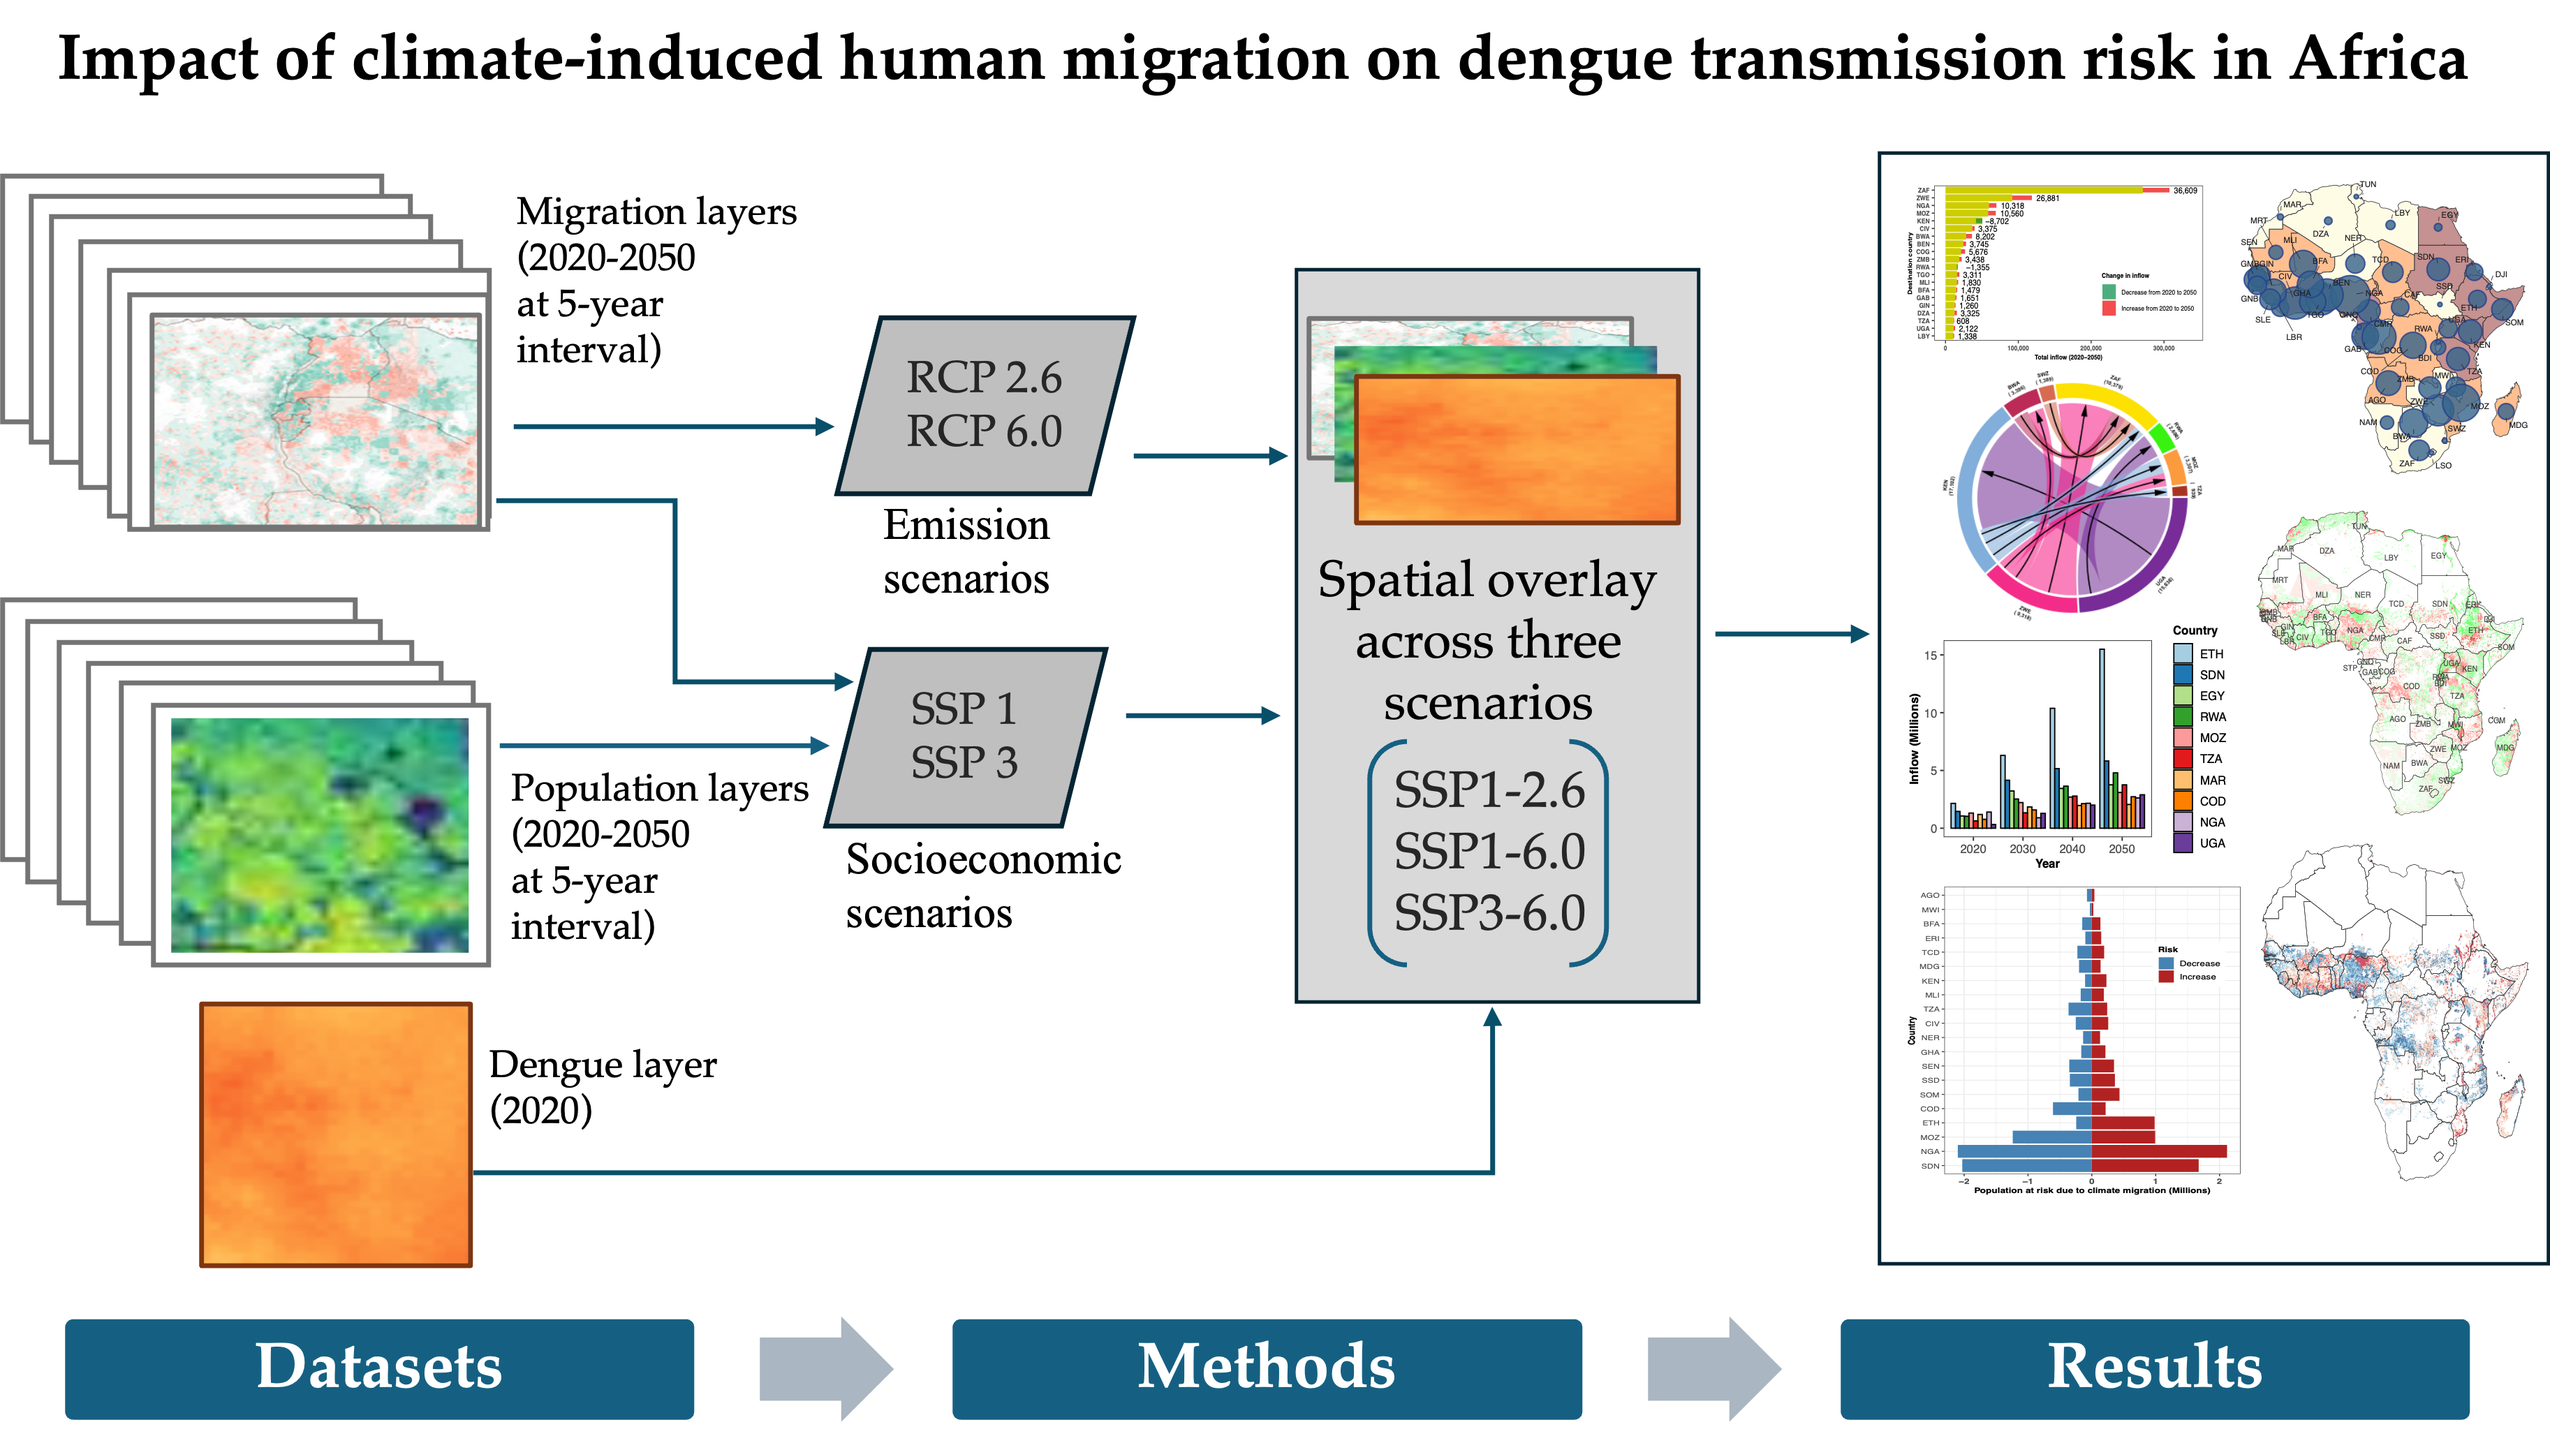
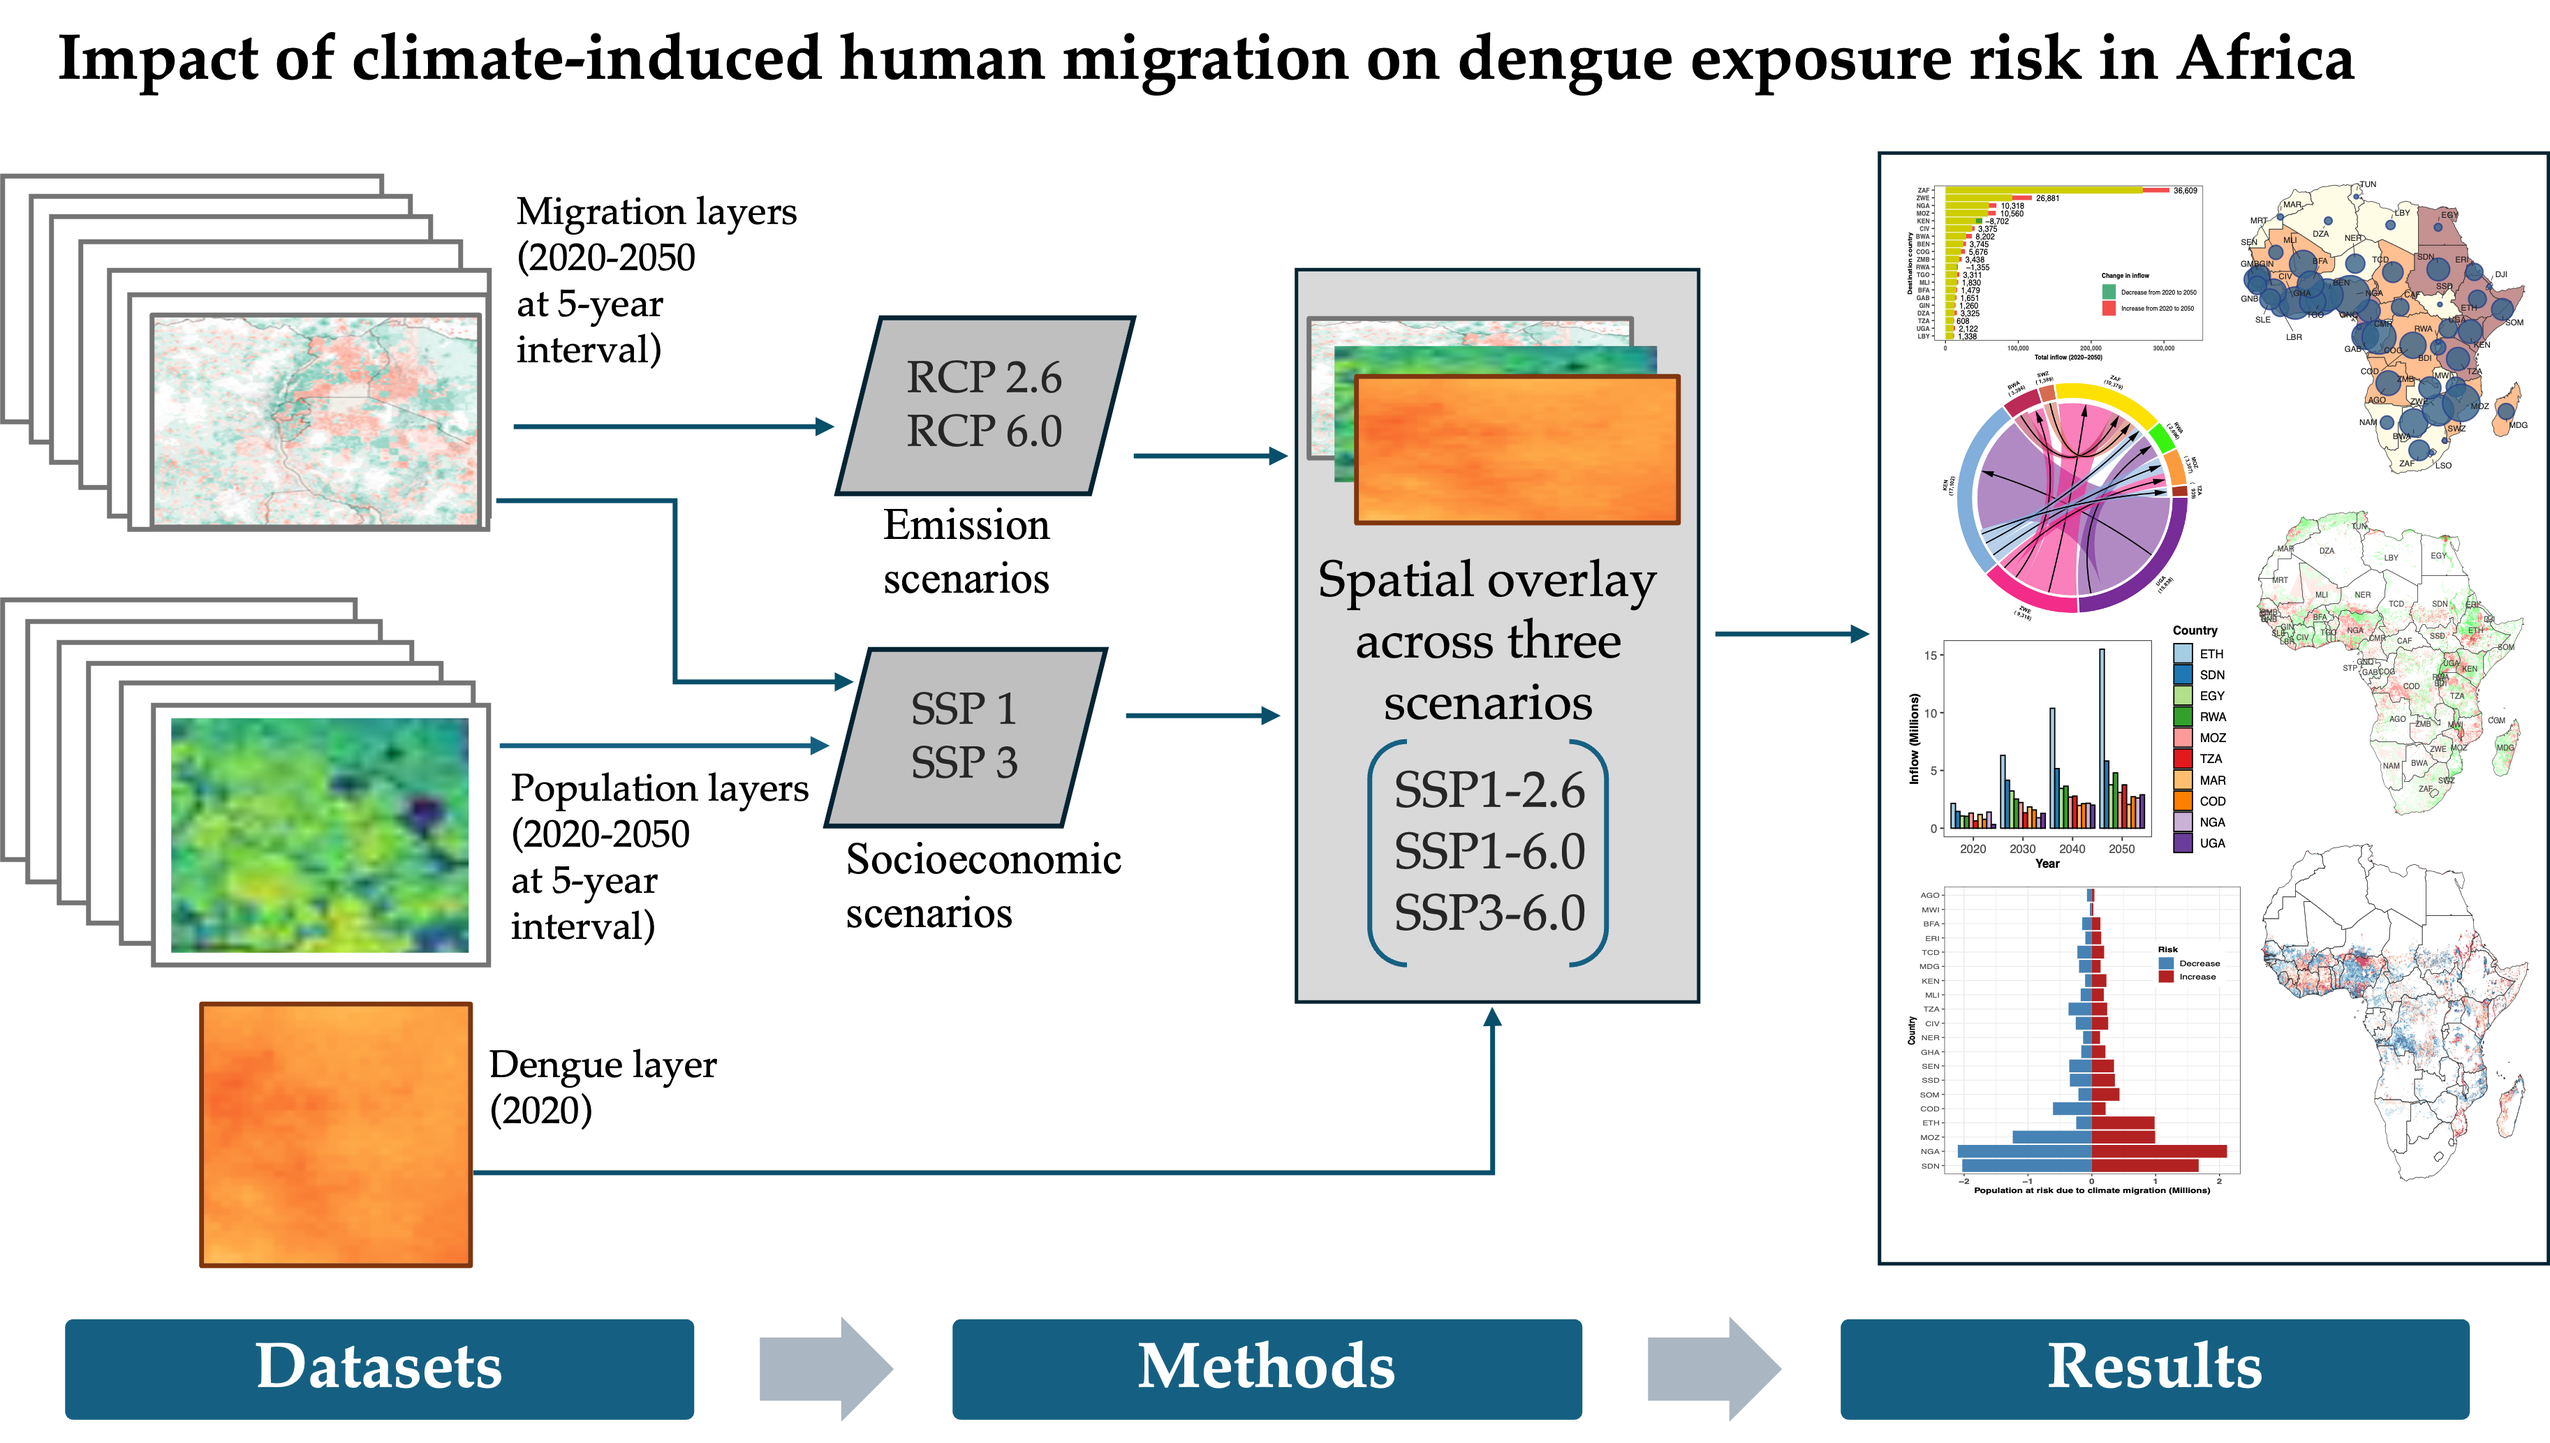
modified

Changed region(s): [[0.6555, 0.031, 0.9677, 0.0619], [0.8116, 0.2787, 0.8428, 0.3406], [0.7804, 0.3406, 0.8116, 0.4025]]

diff --git a/README.md b/README.md
@@ -1,11 +1,13 @@
-# Impact of climate-induced human migration on dengue transmission risk in Africa
+# Impact of climate-induced human migration on dengue exposure risk in Africa
+
+Authors: Moges DM., Poongavanan J., Dor G.,, Moir M., Baxter C., Oliveira T., Moritz MUG., Kraemer M., Tegally H.
 
 # Abstract
 
-Climate-induced human migration is becoming an important factor shaping dengue transmission across Africa. Using continent-wide projections of climate-related migration and population change under multiple development and emissions scenarios through 2050, here we examine how internal and cross-border migration evolve across space and time, and how these shifts reshape population exposure to dengue risk. We find that by mid century, cross-border climate migration is projected to reach about 1.1 million people, while internal climate migration could rise to nearly 75 million. Internal migration is expected to concentrate people in cities, border areas, and climatically favorable regions, while cross-border movements redistribute populations across countries. These mobility patterns create conditions for dengue to spread into areas of Southern Africa with limited or no historical transmission, while further intensifying burdens in already endemic regions of West and East Africa. Overall, climate-induced migration is likely to become a major driver of future dengue risk, underscoring the need for proactive, migration-aware public health planning.
+Climate-induced human migration could become an important factor shaping infectious disease transmission across Africa. Using continent-wide projections of climate-related migration and population change under multiple development and emissions scenarios through 2050, we examine the impacts of population exposure to dengue virus due to climate migration. Here we examine how internal and cross-border migration shift across space and time, and how these shifts reshape population exposure to dengue. By mid‑century, climate change could force about 1.1 million people to move across borders and nearly 75 million to relocate internally. Internal migration is expected to concentrate people in cities, border areas, and climatically favorable transmission regions. Together, these mobility patterns create conditions for dengue to spread into previously unaffected parts of Southern Africa and intensify its burden in endemic regions of West and East Africa. Overall, climate‑driven migration in Africa will likely increase future dengue risk, underscoring the need for early public‑health planning that considers migration as a core contributor. 
 
 ![Overview map](Overview.png)
 
 # Acknowledgments  
 
-The authors acknowledge that this work is an initiative of the CLIMADE consortium. The Centre for Epidemic Response and Innovation and the Kwazulu-Natal Research Innovation and Sequencing Platform are supported in part by grants from the Rockefeller Foundation (HTH 017), the National Institute of Health USA (U01 AI151698) for the United World Antiviral Research Network, and the INFORM Africa project through the Institute of Human Virology Nigeria (U54 TW012041), Global Health EDCTP3 Joint Undertaking and its members and the Bill & Melinda Gates Foundation (101103171), European Union (EU) Horizon Europe Research and Innovation Programme (101046041), the Health Emergency Preparedness and Response Umbrella Program, managed by the World Bank Group (TF0B8412), the Medical Research Foundation (MRF-RG-ICCH-2022-100069), and the Wellcome Trust (228186/Z/23/Z). MUGK acknowledges funding from The Rockefeller Foundation (PC-2022-POP-005), Google, the Oxford Martin School Programmes in Pandemic Genomics & Digital Pandemic Preparedness, EU Horizon Europe programme project MOOD (874850), E4Warning (101086640), the Wellcome Trust (225288/Z/22/Z, 226052/Z/22/Z, and 228186/Z/23/Z), UK Research and Innovation (APP8583), and the Medical Research Foundation (MRF-RG-ICCH-2022-100069); and a Branco Weiss Fellowship. JL-HT is supported by a Yeotown Scholarship from New College at the University of Oxford. VC acknowledges funding from Horizon Europe (grants ESCAPE 101095619 and VERDI 101045989), and an EU Horizon 2020 grant (MOOD [H2020-874850, paper 874850]). The content and findings reported herein are the sole deductions, views, and responsibility of the researchers and do not necessarily reflect the official position and sentiments of the funding agencies.
+The authors acknowledge that this work is an initiative of the CLIMADE consortium. The Centre for Epidemic Response are supported in part by grants from the Rockefeller Foundation (HTH 017), and the INFORM Africa project through the Institute of Human Virology Nigeria (U54 TW012041), Global Health EDCTP3 Joint Undertaking and its members and the Bill & Melinda Gates Foundation (101103171), the Health Emergency Preparedness and Response Umbrella Program, managed by the World Bank Group (TF0B8412), the Medical Research Foundation (MRF-RG-ICCH-2022-100069), the Wellcome Trust for the Global.health project (228186/Z/23/Z), and the Novo Nordisk Foundation (NNF24OC0094346). MUGK acknowledges funding from The Rockefeller Foundation (PC-2022-POP-005), Health AI Programme from Google.org, the Oxford Martin School Programmes in Pandemic Genomics & Digital Pandemic Preparedness, EU Horizon Europe programme project MOOD (874850), E4Warning (101086640), the Wellcome Trust (225288/Z/22/Z, 226052/Z/22/Z, and 228186/Z/23/Z), UK Research and Innovation (APP8583), and the Medical Research Foundation (MRF-RG-ICCH-2022-100069); UK International Development (301542-403), the Bill & Melinda Gates Foundation grants (INV-063472, INV-090281). The content and findings reported herein are the sole deductions, views, and responsibility of the researchers and do not necessarily reflect the official position and sentiments of the funding agencies.
